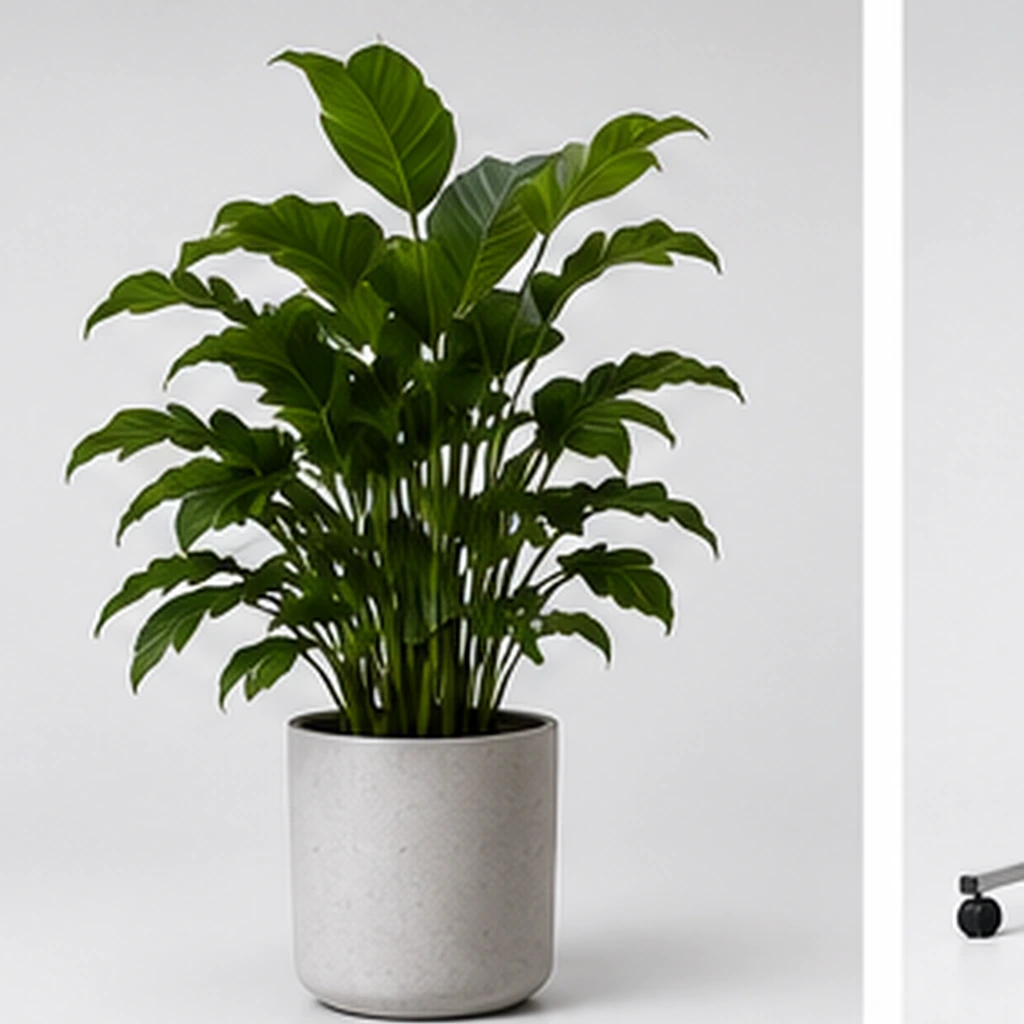
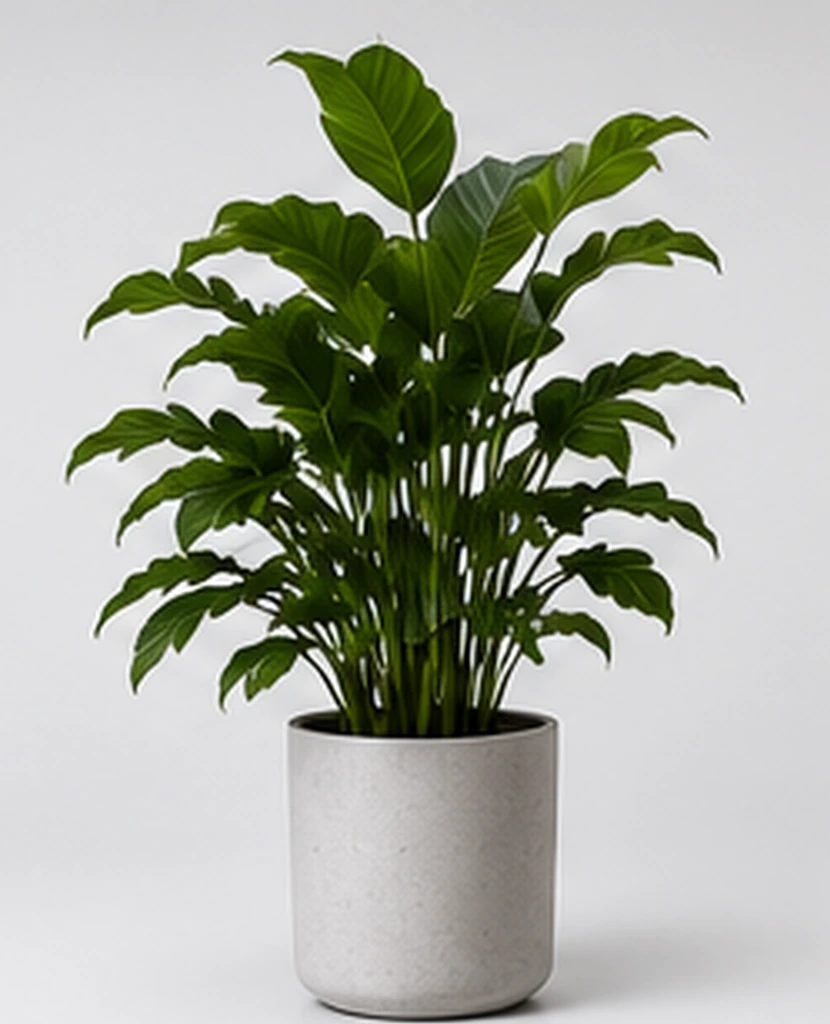
Remove the chair from the indoor plant shot
라운지 실내 식재 상세에 옆 의자 바퀴가 같이 찍혀 있었습니다. 그 의자 때문에
내용 영역이 프레임 전체로 잡혀서 자동 여백 제거도 걸리지 않았습니다.

- 의자가 있는 오른쪽을 잘라내고, 보관본에도 반영했습니다. 그림 내용에 대한
  판단이라 원본 자체를 고쳐야 스크립트를 다시 돌려도 되살아나지 않습니다
- clean_product_shots.py 가 항상 _raw 원본에서 출발하도록 수정. 이미 잘린
  파일을 다시 자르면 여백이 조금씩 더 깎여 나가서, 두 번 실행하면 결과가
  달라지고 있었습니다

diff --git a/scripts/images/clean_product_shots.py b/scripts/images/clean_product_shots.py
@@ -97,6 +97,16 @@ def pad_box(box, size, pad):
     )
 
 
+def source_of(path: Path) -> Path:
+    """자를 대상의 원본. _raw 에 보관본이 있으면 그쪽을 씁니다.
+
+    이미 잘린 파일을 다시 자르면 여백이 조금씩 더 깎여 나갑니다. 항상 원본에서
+    출발해야 몇 번을 실행해도 결과가 같습니다.
+    """
+    kept = RAW / path.name
+    return kept if kept.exists() else path
+
+
 def plan(asset_ids: set[str]):
     """자산 id → (원본 경로, 자를 상자). 턴테이블은 4프레임을 묶어 같은 상자를 씁니다."""
     singles, groups = {}, {}
@@ -107,7 +117,7 @@ def plan(asset_ids: set[str]):
         if not re.match(r"^(product|material|turntable)_", path.stem):
             continue
 
-        with Image.open(path) as raw:
+        with Image.open(source_of(path)) as raw:
             image = raw.convert("RGB")
             cut = caption_cut(image)
             if cut:
@@ -155,7 +165,7 @@ def main() -> int:
     print(f"{'자산':34}{'캡션':>7}{'크기 변화':>22}")
     print("-" * 66)
     for stem, path, cut, box in tasks:
-        with Image.open(path) as raw:
+        with Image.open(source_of(path)) as raw:
             image = raw.convert("RGB")
             before = image.size
             if cut:
@@ -170,7 +180,7 @@ def main() -> int:
         if apply:
             if not (RAW / path.name).exists():
                 shutil.copy2(path, RAW / path.name)
-            cropped.save(path)
+            cropped.save(path)  # 원본은 _raw 에 그대로 남습니다
 
     print(f"\n{'적용' if apply else '미리보기'} — 대상 {changed}장")
     if not apply and changed:
